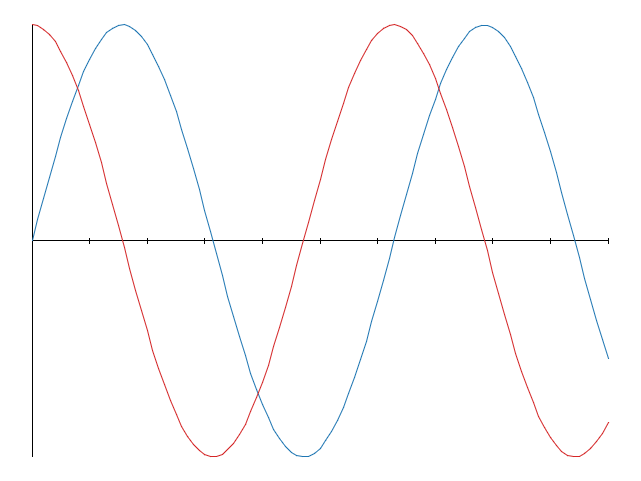
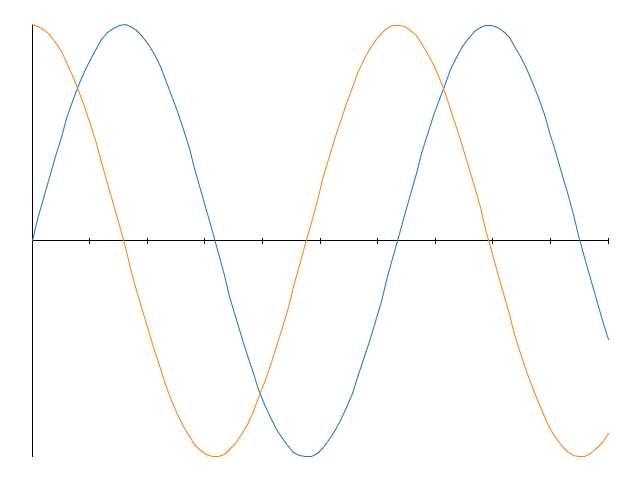
renamings

diff --git a/notes/target.md b/notes/target.md
@@ -40,14 +40,13 @@ PNG:
 with:
 
 ```nim
-import ../src/graph
-import ../src/graph/draw,../src/graph/funcs
-import math
-
-let x = linspace(0.0, 10, 0.1) 
-
-var srf = plotXY(x,sin(x),Blue)
-srf.plotProc(x, cos, Red)
+import graph, math, arraymancer
+let 
+  x  = arange(0.0'f64, 10,0.1)
+let y  = sin(x)
+let y2 = cos(x)
+var srf = plot(x.data,y.data, Viridis.blue)
+srf.plot(x.data, y2.data, Viridis.orange)
 
 # Save to file
 srf.saveTo("currentpng.png")
